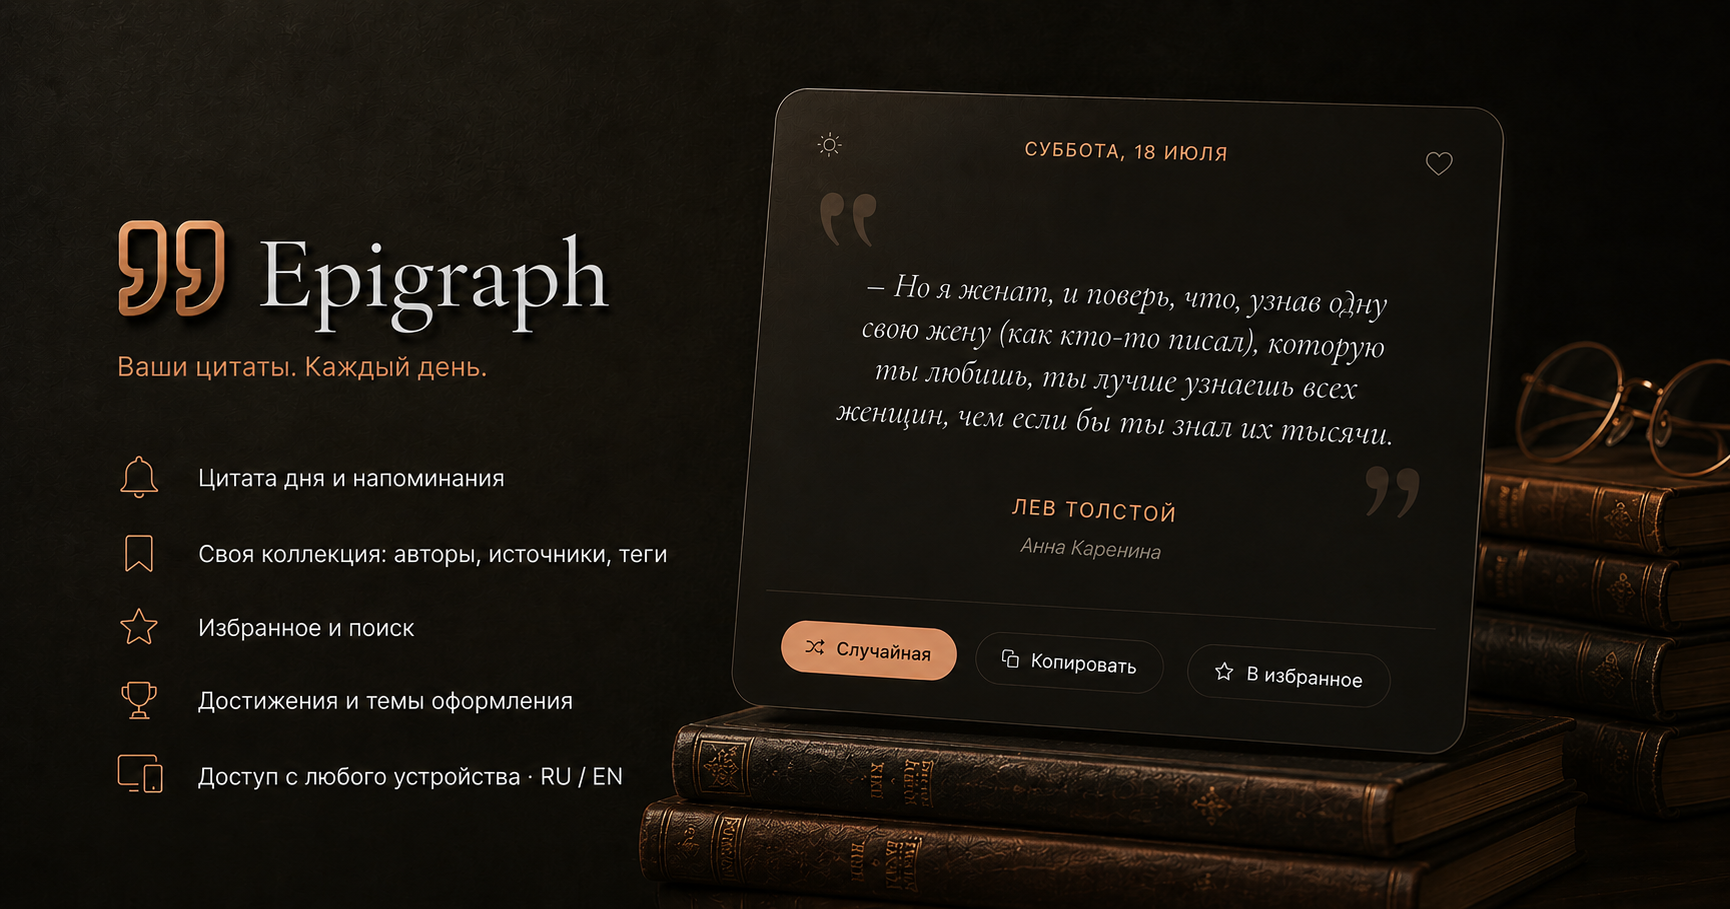
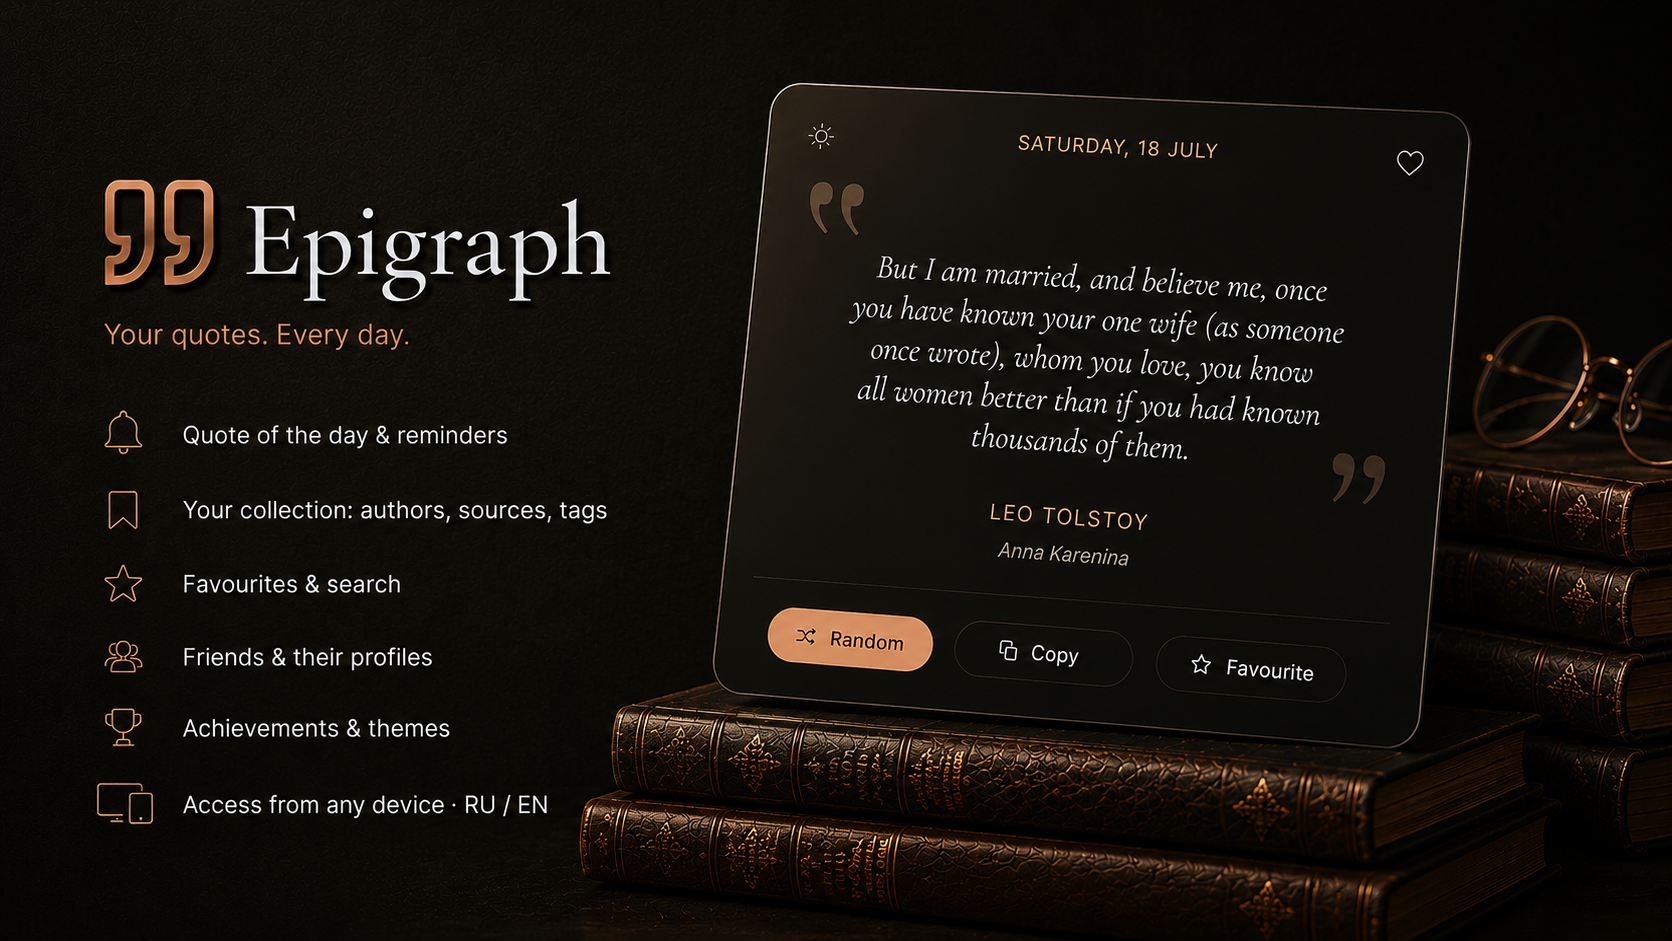
[TASK-129] Show a pending friend-request badge in the header and account menu, showcase updated, small changes in Cosmos theme

diff --git a/backend/src/main/resources/static/js/friends.js b/backend/src/main/resources/static/js/friends.js
@@ -41,6 +41,47 @@ let friendsSearchTimer = null;
 const FRIEND_ICON_USER_PLUS = '<svg width="14" height="14" viewBox="0 0 24 24" fill="none" stroke="currentColor" stroke-width="2" stroke-linecap="round" stroke-linejoin="round" aria-hidden="true"><path d="M16 21v-2a4 4 0 0 0-4-4H5a4 4 0 0 0-4 4v2"/><circle cx="8.5" cy="7" r="4"/><line x1="20" y1="8" x2="20" y2="14"/><line x1="23" y1="11" x2="17" y2="11"/></svg>';
 const FRIEND_ICON_CHECK = '<svg width="14" height="14" viewBox="0 0 24 24" fill="none" stroke="currentColor" stroke-width="2" stroke-linecap="round" stroke-linejoin="round" aria-hidden="true"><polyline points="20 6 9 17 4 12"/></svg>';
 
+// =============================================================================
+// PENDING-REQUEST BADGE (TASK-129)
+// A count of live state, not a notification feed: the number *is* how many
+// requests are unanswered, so answering one lowers it on its own and there is
+// no read/unread flag to store anywhere. The header avatar only carries a dot
+// ("something is waiting"); the number itself lives on the Friends row of the
+// account menu, which is where the dot leads.
+// =============================================================================
+/**
+ * Paints the badge from a known count.
+ * @param {number} count
+ */
+function renderFriendRequestsBadge(count) {
+    const dot = document.getElementById('account-badge-dot');
+    if (dot) dot.style.display = count > 0 ? '' : 'none';
+
+    const menuCount = document.getElementById('account-menu-friends-count');
+    if (menuCount) {
+        menuCount.style.display = count > 0 ? '' : 'none';
+        menuCount.textContent = count;
+    }
+}
+
+/**
+ * Re-reads the count from the server. Called when the account menu opens, so
+ * a request that arrived while the tab sat open still shows up without a
+ * reload — and cheaply, since it only runs on an actual user gesture.
+ */
+async function refreshFriendRequestsBadge() {
+    if (isGuest || !currentUser) return;
+
+    try {
+        const requests = await Api.getFriendRequests();
+        renderFriendRequestsBadge(requests.length);
+    } catch (e) {
+        // A failed refresh leaves the last known count on screen — a badge is
+        // not worth a visible error.
+        console.error('Friend request badge refresh error:', e);
+    }
+}
+
 /**
  * Entry point when the Friends view opens (see switchView). The search box is
  * deliberately *not* cleared: the common path here is search → open someone's
@@ -68,6 +109,9 @@ async function refreshFriendsLists() {
         renderFriendRequests(requests);
         renderOutgoingRequests(outgoing);
         renderFriendsList(friends);
+        // Accepting or declining here changes the count, so keep the header in
+        // sync without a second round-trip — we already have the list.
+        renderFriendRequestsBadge(requests.length);
     } catch (e) {
         console.error('Friends load error:', e);
         toast(t('toastError'), 'error');

diff --git a/backend/src/main/resources/static/css/styles.css b/backend/src/main/resources/static/css/styles.css
@@ -205,7 +205,11 @@
     --color-banner-highlight: #2a2158;
     --color-accent: #c084fc;
     --color-gold: #f0c94a;
-    --color-plus: #e2c56e;
+    /* Silver rather than the warm gold the other themes use: Cosmos' Plus
+       accent should read like its own falling stars, which are drawn in
+       --color-text (#e4e2f7). Deliberately a touch dimmer and cooler than that,
+       so the pill stays an accent instead of looking like plain white text. */
+    --color-plus: #c9c6de;
     --color-plus-ink: #0a0a1a;
 }
 
@@ -3283,6 +3287,40 @@ body.modal-lock-scroll {
     color: var(--color-primary);
     font-size: var(--text-sm);
     font-weight: 500;
+}
+
+/* -- pending friend requests: header dot + menu count (TASK-129) --
+   The avatar only says "something is waiting"; the number lives on the Friends
+   row of the menu the dot leads to. Anchored on .account-menu (already
+   position:relative) rather than inside the avatar button, whose innerHTML
+   updateHeaderAccount() rewrites on every render. */
+.account-badge-dot {
+    position: absolute;
+    top: -1px;
+    right: -1px;
+    width: 9px;
+    height: 9px;
+    border-radius: 50%;
+    background: var(--color-primary);
+    /* Ring in the page colour, not a border — without it the dot merges into
+       the avatar's edge, badly in light themes. */
+    box-shadow: 0 0 0 2px var(--color-bg);
+    pointer-events: none;
+}
+
+.account-menu-count {
+    margin-left: auto;
+    min-width: 18px;
+    height: 18px;
+    padding: 0 5px;
+    border-radius: var(--radius-full);
+    background: var(--color-primary);
+    color: var(--color-text-inverse);
+    font-size: var(--text-xs);
+    font-weight: 500;
+    display: flex;
+    align-items: center;
+    justify-content: center;
 }
 
 /* =============================================================================

diff --git a/backend/src/main/resources/static/index.html b/backend/src/main/resources/static/index.html
@@ -373,6 +373,9 @@
             </button>
             <div class="account-menu" id="account-menu" style="display:none">
                 <button class="account-avatar-btn" id="account-avatar-btn" onclick="toggleAccountMenu()" aria-haspopup="menu" aria-expanded="false" aria-label="Меню аккаунта" data-i18n-aria="ariaAccountMenu"></button>
+                <!-- Sibling of the avatar button, not a child: updateHeaderAccount()
+                     replaces that button's innerHTML on every render. -->
+                <span class="account-badge-dot" id="account-badge-dot" style="display:none" aria-hidden="true"></span>
                 <div class="account-menu-dropdown" id="account-menu-dropdown" role="menu">
                     <div class="account-menu-plus" id="account-menu-plus" role="presentation" style="display:none">
                         <div class="account-menu-plus-head">
@@ -410,6 +413,7 @@
                             <path d="M16 3.13a4 4 0 0 1 0 7.75"/>
                         </svg>
                         <span data-i18n="accountMenuFriends">Друзья</span>
+                        <span class="account-menu-count" id="account-menu-friends-count" style="display:none"></span>
                     </button>
                     <button class="account-menu-item" role="menuitem" onclick="logout()">
                         <svg width="15" height="15" viewBox="0 0 24 24" fill="none" stroke="currentColor" stroke-width="2" stroke-linecap="round" stroke-linejoin="round" aria-hidden="true">

diff --git a/backend/src/main/resources/static/js/account.js b/backend/src/main/resources/static/js/account.js
@@ -273,6 +273,10 @@ function updateHeaderAccount() {
     // (PLUS_QUOTE_LIMIT in quotes-edit.js) rather than hardcoding the number.
     const benefitLimit = document.getElementById('account-menu-plus-benefit-limit');
     if (benefitLimit) benefitLimit.textContent = t('accountMenuPlusBenefitLimit', {limit: PLUS_QUOTE_LIMIT});
+
+    // Pending friend requests come with /api/auth/me, so the badge is correct
+    // from the first render without its own request (TASK-129).
+    renderFriendRequestsBadge(currentUser?.pendingFriendRequests || 0);
 }
 
 /**
@@ -290,6 +294,10 @@ function toggleAccountMenu() {
         const btn = document.getElementById('account-avatar-btn');
         btn?.classList.add('open');
         btn?.setAttribute('aria-expanded', 'true');
+
+        // Catches a request that arrived while the tab sat open — one call, on
+        // an actual gesture, instead of polling in the background.
+        refreshFriendRequestsBadge();
     }
 }
 

diff --git a/backend/src/main/java/com/mkrasikoff/epigraph/controller/AuthController.java b/backend/src/main/java/com/mkrasikoff/epigraph/controller/AuthController.java
@@ -10,6 +10,7 @@ import com.mkrasikoff.epigraph.exception.ApiCodes;
 import com.mkrasikoff.epigraph.model.User;
 import com.mkrasikoff.epigraph.service.AchievementService;
 import com.mkrasikoff.epigraph.service.AuthService;
+import com.mkrasikoff.epigraph.service.FriendshipService;
 import com.mkrasikoff.epigraph.service.UserService;
 import jakarta.validation.Valid;
 import org.slf4j.Logger;
@@ -36,11 +37,14 @@ public class AuthController {
     private final AuthService authService;
     private final UserService userService;
     private final AchievementService achievementService;
+    private final FriendshipService friendshipService;
 
-    public AuthController(AuthService authService, UserService userService, AchievementService achievementService) {
+    public AuthController(AuthService authService, UserService userService, AchievementService achievementService,
+                          FriendshipService friendshipService) {
         this.authService = authService;
         this.userService = userService;
         this.achievementService = achievementService;
+        this.friendshipService = friendshipService;
     }
 
     @PostMapping("/register")
@@ -76,7 +80,7 @@ public class AuthController {
                 .<ResponseEntity<?>>map(user -> {
                     boolean isNewActivityDay = achievementService.markActiveToday(userId);
                     if (!isNewActivityDay) {
-                        return ResponseEntity.ok(new MeResponse(user.getId(), user.getEmail(), user.getUsername(), user.getAvatarIcon(), user.getPreferredLanguage(), user.getThemeStyle(), user.getEquippedBadge(), user.getPlusSince() != null));
+                        return ResponseEntity.ok(new MeResponse(user.getId(), user.getEmail(), user.getUsername(), user.getAvatarIcon(), user.getPreferredLanguage(), user.getThemeStyle(), user.getEquippedBadge(), user.getPlusSince() != null, friendshipService.countIncomingRequests(userId)));
                     }
 
                     achievementService.evaluate(userId);
@@ -85,7 +89,7 @@ public class AuthController {
                     // detached snapshot from before that ran, so it would still
                     // report the old badge.
                     User refreshed = userService.findById(userId).orElse(user);
-                    return ResponseEntity.ok(new MeResponse(refreshed.getId(), refreshed.getEmail(), refreshed.getUsername(), refreshed.getAvatarIcon(), refreshed.getPreferredLanguage(), refreshed.getThemeStyle(), refreshed.getEquippedBadge(), refreshed.getPlusSince() != null));
+                    return ResponseEntity.ok(new MeResponse(refreshed.getId(), refreshed.getEmail(), refreshed.getUsername(), refreshed.getAvatarIcon(), refreshed.getPreferredLanguage(), refreshed.getThemeStyle(), refreshed.getEquippedBadge(), refreshed.getPlusSince() != null, friendshipService.countIncomingRequests(userId)));
                 })
                 .orElseGet(() -> ResponseEntity.status(HttpStatus.NOT_FOUND)
                         .body(new ErrorResponse(ApiCodes.USER_NOT_FOUND)));

diff --git a/backend/src/test/java/com/mkrasikoff/epigraph/controller/AuthControllerTest.java b/backend/src/test/java/com/mkrasikoff/epigraph/controller/AuthControllerTest.java
@@ -6,6 +6,7 @@ import com.mkrasikoff.epigraph.dto.auth.VerifyRequest;
 import com.mkrasikoff.epigraph.model.User;
 import com.mkrasikoff.epigraph.service.AchievementService;
 import com.mkrasikoff.epigraph.service.AuthService;
+import com.mkrasikoff.epigraph.service.FriendshipService;
 import com.mkrasikoff.epigraph.service.UserService;
 import org.junit.jupiter.api.BeforeEach;
 import org.junit.jupiter.api.DisplayName;
@@ -44,12 +45,15 @@ class AuthControllerTest {
     @Mock
     private AchievementService achievementService;
 
+    @Mock
+    private FriendshipService friendshipService;
+
     private MockMvc mockMvc;
     private ObjectMapper objectMapper;
 
     @BeforeEach
     void setUp() {
-        AuthController controller = new AuthController(authService, userService, achievementService);
+        AuthController controller = new AuthController(authService, userService, achievementService, friendshipService);
         mockMvc = MockMvcBuilders.standaloneSetup(controller).build();
         objectMapper = new ObjectMapper();
     }
@@ -270,10 +274,12 @@ class AuthControllerTest {
         user.setEquippedBadge("chronicler");
         user.setPlusSince(1_700_000_000_000L);
         when(userService.findById(null)).thenReturn(Optional.of(user));
+        when(friendshipService.countIncomingRequests(null)).thenReturn(2);
 
         mockMvc.perform(get("/api/auth/me"))
                 .andExpect(status().isOk())
                 .andExpect(content().contentTypeCompatibleWith(MediaType.APPLICATION_JSON))
+                .andExpect(jsonPath("$.pendingFriendRequests").value(2))
                 .andExpect(jsonPath("$.id").value(42))
                 .andExpect(jsonPath("$.email").value("user@example.com"))
                 .andExpect(jsonPath("$.username").value("testuser"))

diff --git a/backend/src/main/java/com/mkrasikoff/epigraph/service/FriendshipService.java b/backend/src/main/java/com/mkrasikoff/epigraph/service/FriendshipService.java
@@ -145,6 +145,16 @@ public class FriendshipService {
     }
 
     /**
+     * How many friend requests await the user's answer. Drives the header badge
+     * (TASK-129) — a count of live state, not a notification feed: answering a
+     * request lowers it on its own, so there is no read/unread flag to store.
+     */
+    @Transactional(readOnly = true)
+    public int countIncomingRequests(Long userId) {
+        return (int) friendshipRepository.countByAddresseeIdAndStatus(userId, Friendship.STATUS_PENDING);
+    }
+
+    /**
      * Every user the given user has an outstanding request out to — so they can
      * see and cancel what they've already sent instead of re-sending blindly.
      */

diff --git a/backend/src/test/java/com/mkrasikoff/epigraph/service/FriendshipServiceTest.java b/backend/src/test/java/com/mkrasikoff/epigraph/service/FriendshipServiceTest.java
@@ -312,6 +312,14 @@ class FriendshipServiceTest {
     }
 
     @Test
+    @DisplayName("countIncomingRequests: counts only pending requests addressed to the user")
+    void countIncomingRequests_countsPendingIncoming() {
+        when(friendshipRepository.countByAddresseeIdAndStatus(ME, Friendship.STATUS_PENDING)).thenReturn(3L);
+
+        assertThat(friendshipService.countIncomingRequests(ME)).isEqualTo(3);
+    }
+
+    @Test
     @DisplayName("listOutgoingRequests: resolves each addressee of a pending sent request, marked OUTGOING")
     void listOutgoingRequests_mapsAddresseeToSummaries() {
         when(friendshipRepository.findByRequesterIdAndStatus(ME, Friendship.STATUS_PENDING))

diff --git a/backend/src/main/java/com/mkrasikoff/epigraph/repository/FriendshipRepository.java b/backend/src/main/java/com/mkrasikoff/epigraph/repository/FriendshipRepository.java
@@ -32,6 +32,13 @@ public interface FriendshipRepository extends JpaRepository<Friendship, Long> {
     List<Friendship> findByRequesterIdAndStatus(Long requesterId, String status);
 
     /**
+     * How many requests await the user's answer, for the header badge. Served by
+     * idx_friendships_addressee, so this stays a cheap counted index scan even
+     * though it runs on every /api/auth/me.
+     */
+    long countByAddresseeIdAndStatus(Long addresseeId, String status);
+
+    /**
      * Every accepted friendship the user is part of, on either side. The caller
      * maps each row to "the other user".
      */

diff --git a/backend/src/main/java/com/mkrasikoff/epigraph/dto/auth/MeResponse.java b/backend/src/main/java/com/mkrasikoff/epigraph/dto/auth/MeResponse.java
@@ -18,4 +18,11 @@ public class MeResponse {
     private String themeStyle;
     private String equippedBadge;
     private boolean plus;
+
+    /**
+     * Неотвеченных входящих заявок в друзья — для значка в шапке (TASK-129).
+     * Это индексированный count по (addressee_id, status), а не обход истории,
+     * поэтому его не жалко считать на каждый вызов /me.
+     */
+    private int pendingFriendRequests;
 }

diff --git a/README.md b/README.md
@@ -8,7 +8,7 @@ follow you across devices.
 
 <p align="center">
   <a href="https://epigraph.me">
-    <img src="showcase.png" alt="Epigraph — quote of the day in dark, light, and Russian views" width="100%">
+    <img src="showcase.png" alt="Epigraph — quote of the day on a dark screen, with feature highlights" width="100%">
   </a>
 </p>
 
